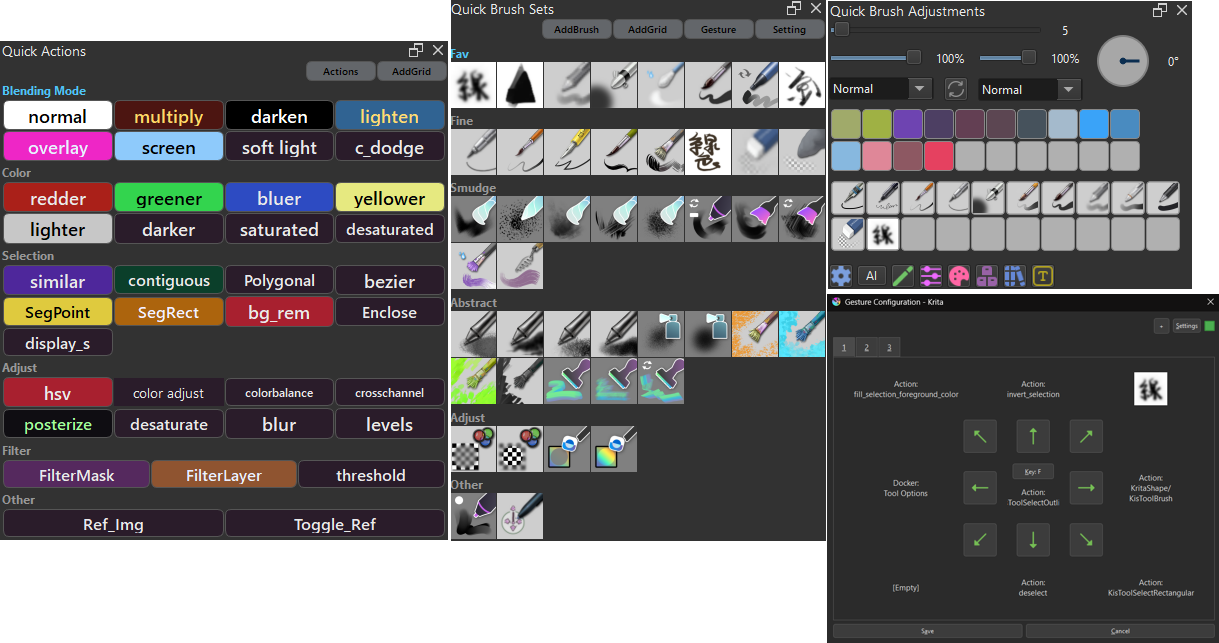
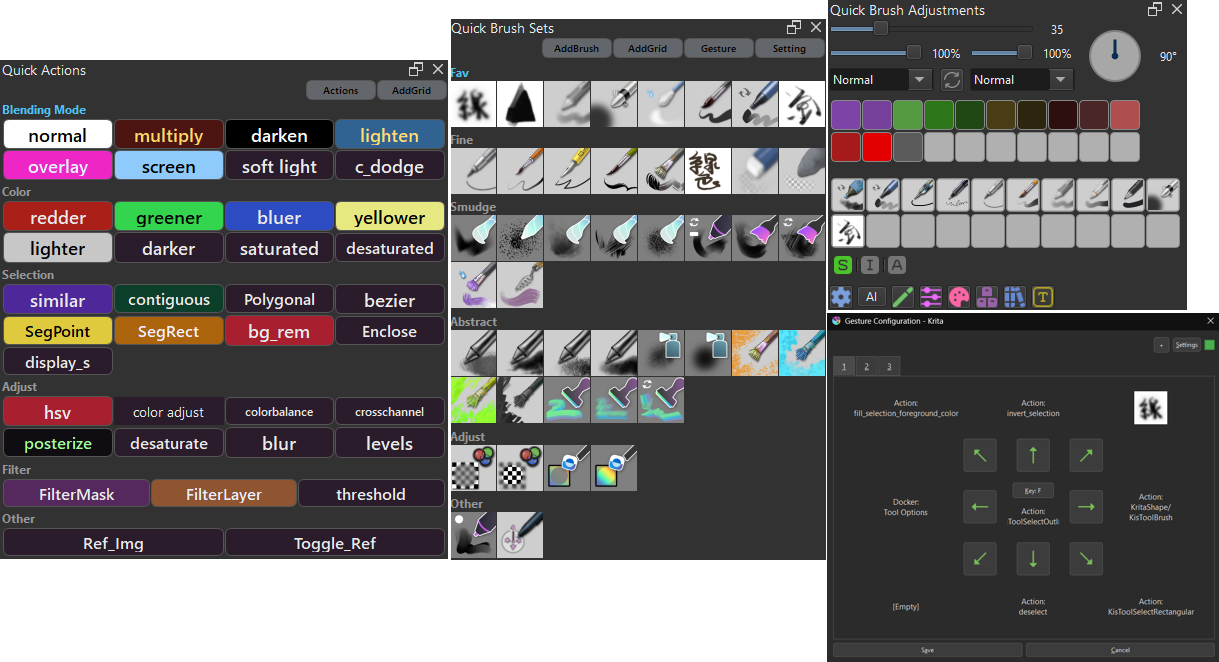
Add status bar

diff --git a/quick_access_manager/widgets2/status_bar.py b/quick_access_manager/widgets2/status_bar.py
@@ -11,6 +11,12 @@ class StatusBarWidget(QWidget):
     def __init__(self, parent=None):
         super().__init__(parent)
         self.icon_dir = os.path.join(os.path.dirname(__file__), "icon")
+
+        # Initialize tracking variables before UI setup
+        self.is_selected = False
+        self.is_alphalock = False
+        self.is_inherit_alpha = False
+
         self.init_ui()
         self.update_status()
 
@@ -28,20 +34,32 @@ class StatusBarWidget(QWidget):
         self.selection_info_label = QLabel()
         self.selection_info_label.setFixedSize(18, 18)
         self.selection_info_label.setScaledContents(True)
-
-        self.alphalock_info_label = QLabel()
-        self.alphalock_info_label.setFixedSize(18, 18)
-        self.alphalock_info_label.setScaledContents(True)
+        self.selection_info_label.setPixmap(
+            QPixmap(os.path.join(self.icon_dir, "selection_off.png"))
+        )
+        self.selection_info_label.setToolTip("Selection: Off")
 
         self.inherit_alpha_info_label = QLabel()
         self.inherit_alpha_info_label.setFixedSize(18, 18)
         self.inherit_alpha_info_label.setScaledContents(True)
+        self.inherit_alpha_info_label.setPixmap(
+            QPixmap(os.path.join(self.icon_dir, "inherit_alpha_off.png"))
+        )
+        self.inherit_alpha_info_label.setToolTip("Inherit Alpha: Off")
+
+        self.alphalock_info_label = QLabel()
+        self.alphalock_info_label.setFixedSize(18, 18)
+        self.alphalock_info_label.setScaledContents(True)
+        self.alphalock_info_label.setPixmap(
+            QPixmap(os.path.join(self.icon_dir, "alpha_lock_off.png"))
+        )
+        self.alphalock_info_label.setToolTip("Alpha Lock: Off")
 
         layout.addWidget(self.selection_info_label)
         layout.addWidget(self._create_separator())
-        layout.addWidget(self.alphalock_info_label)
-        layout.addWidget(self._create_separator())
         layout.addWidget(self.inherit_alpha_info_label)
+        layout.addWidget(self._create_separator())
+        layout.addWidget(self.alphalock_info_label)
         layout.addStretch()
 
         self.setLayout(layout)
@@ -62,36 +80,50 @@ class StatusBarWidget(QWidget):
         return separator
 
     def update_status(self):
-        # Update selection icon
+        # Update selection icon only if status changed
         selection_info = self.get_selection_status()
-        selection_icon = "selection_on.png" if selection_info else "selection_off.png"
-        selection_tooltip = "Selection: On" if selection_info else "Selection: Off"
-        self.selection_info_label.setToolTip(selection_tooltip)
-        self.selection_info_label.setPixmap(
-            QPixmap(os.path.join(self.icon_dir, selection_icon))
-        )
+        if selection_info != self.is_selected:
+            self.is_selected = selection_info
+            selection_icon = (
+                "selection_on.png" if selection_info else "selection_off.png"
+            )
+            selection_tooltip = "Selection: On" if selection_info else "Selection: Off"
+            self.selection_info_label.setToolTip(selection_tooltip)
+            self.selection_info_label.setPixmap(
+                QPixmap(os.path.join(self.icon_dir, selection_icon))
+            )
 
-        # Update alpha lock icon
+        # Update alpha lock icon only if status changed
         alphalock_info = self.get_alphalock_status()
-        alphalock_icon = "alpha_lock_on.png" if alphalock_info else "alpha_lock_off.png"
-        alphalock_tooltip = "Alpha Lock: On" if alphalock_info else "Alpha Lock: Off"
-        self.alphalock_info_label.setToolTip(alphalock_tooltip)
-        self.alphalock_info_label.setPixmap(
-            QPixmap(os.path.join(self.icon_dir, alphalock_icon))
-        )
+        if alphalock_info != self.is_alphalock:
+            self.is_alphalock = alphalock_info
+            alphalock_icon = (
+                "alpha_lock_on.png" if alphalock_info else "alpha_lock_off.png"
+            )
+            alphalock_tooltip = (
+                "Alpha Lock: On" if alphalock_info else "Alpha Lock: Off"
+            )
+            self.alphalock_info_label.setToolTip(alphalock_tooltip)
+            self.alphalock_info_label.setPixmap(
+                QPixmap(os.path.join(self.icon_dir, alphalock_icon))
+            )
 
-        # Update inherit alpha icon
+        # Update inherit alpha icon only if status changed
         inherit_alpha_info = self.get_inherit_alpha_status()
-        inherit_alpha_icon = (
-            "inherit_alpha_on.png" if inherit_alpha_info else "inherit_alpha_off.png"
-        )
-        inherit_alpha_tooltip = (
-            "Inherit Alpha: On" if inherit_alpha_info else "Inherit Alpha: Off"
-        )
-        self.inherit_alpha_info_label.setToolTip(inherit_alpha_tooltip)
-        self.inherit_alpha_info_label.setPixmap(
-            QPixmap(os.path.join(self.icon_dir, inherit_alpha_icon))
-        )
+        if inherit_alpha_info != self.is_inherit_alpha:
+            self.is_inherit_alpha = inherit_alpha_info
+            inherit_alpha_icon = (
+                "inherit_alpha_on.png"
+                if inherit_alpha_info
+                else "inherit_alpha_off.png"
+            )
+            inherit_alpha_tooltip = (
+                "Inherit Alpha: On" if inherit_alpha_info else "Inherit Alpha: Off"
+            )
+            self.inherit_alpha_info_label.setToolTip(inherit_alpha_tooltip)
+            self.inherit_alpha_info_label.setPixmap(
+                QPixmap(os.path.join(self.icon_dir, inherit_alpha_icon))
+            )
 
     def get_selection_status(self):
         doc = Krita.instance().activeDocument()

diff --git a/README.md b/README.md
@@ -155,7 +155,8 @@ finally:
 ## Quick Brush Adjustments Docker
 ![Quick Brush Adjustments](./quick_access_manager/image/004.png)
 
-A dedicated docker for quick brush and layer adjustments, providing instant access to commonly used painting settings.
+A dedicated docker for quick brush and layer adjustments, providing instant access to commonly used painting settings. 
+The docker also includes a status bar at the bottom that displays real-time indicators for active selection, alpha lock, and inherit alpha states. 
 
 ### Features
 
